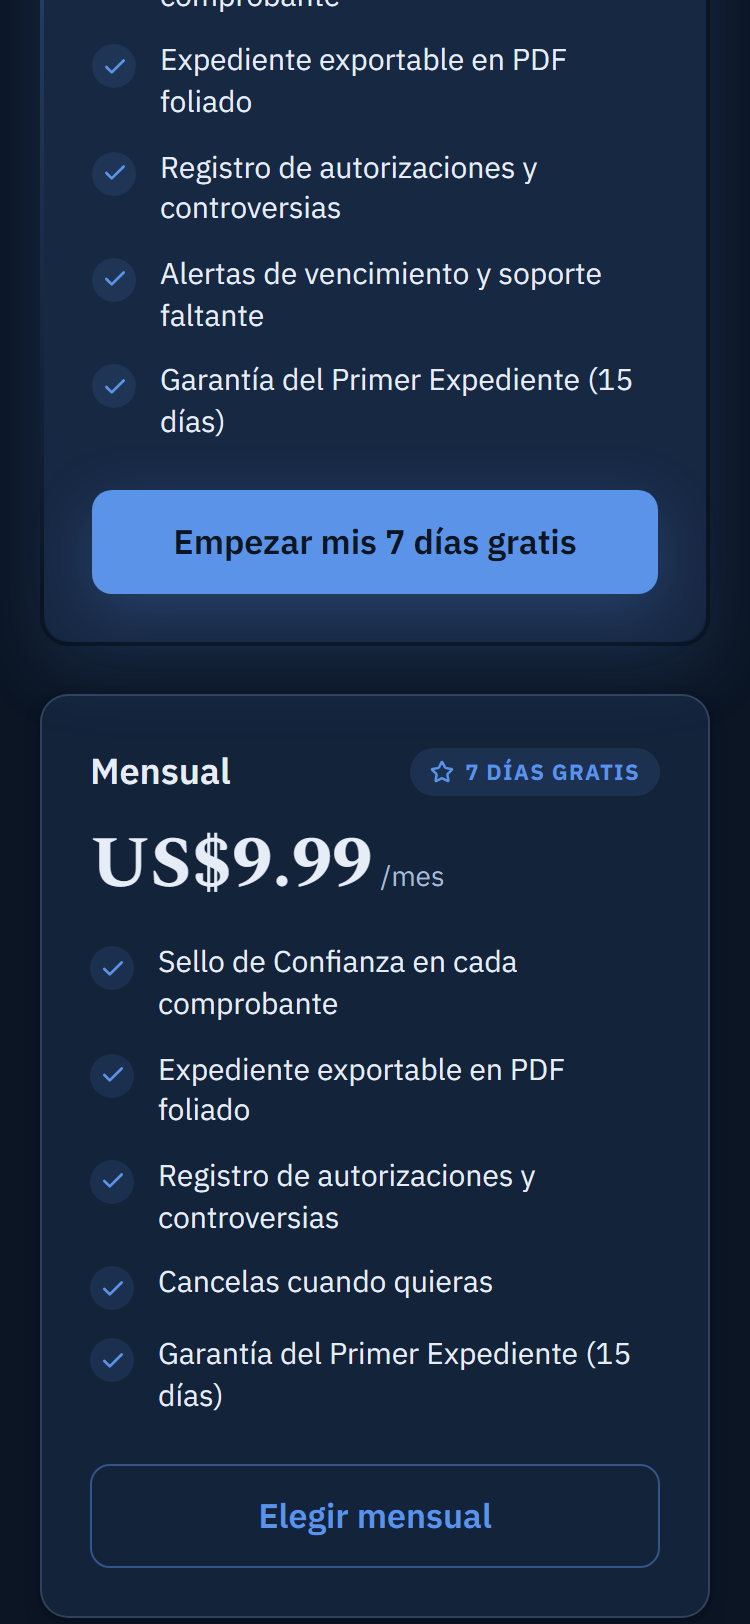
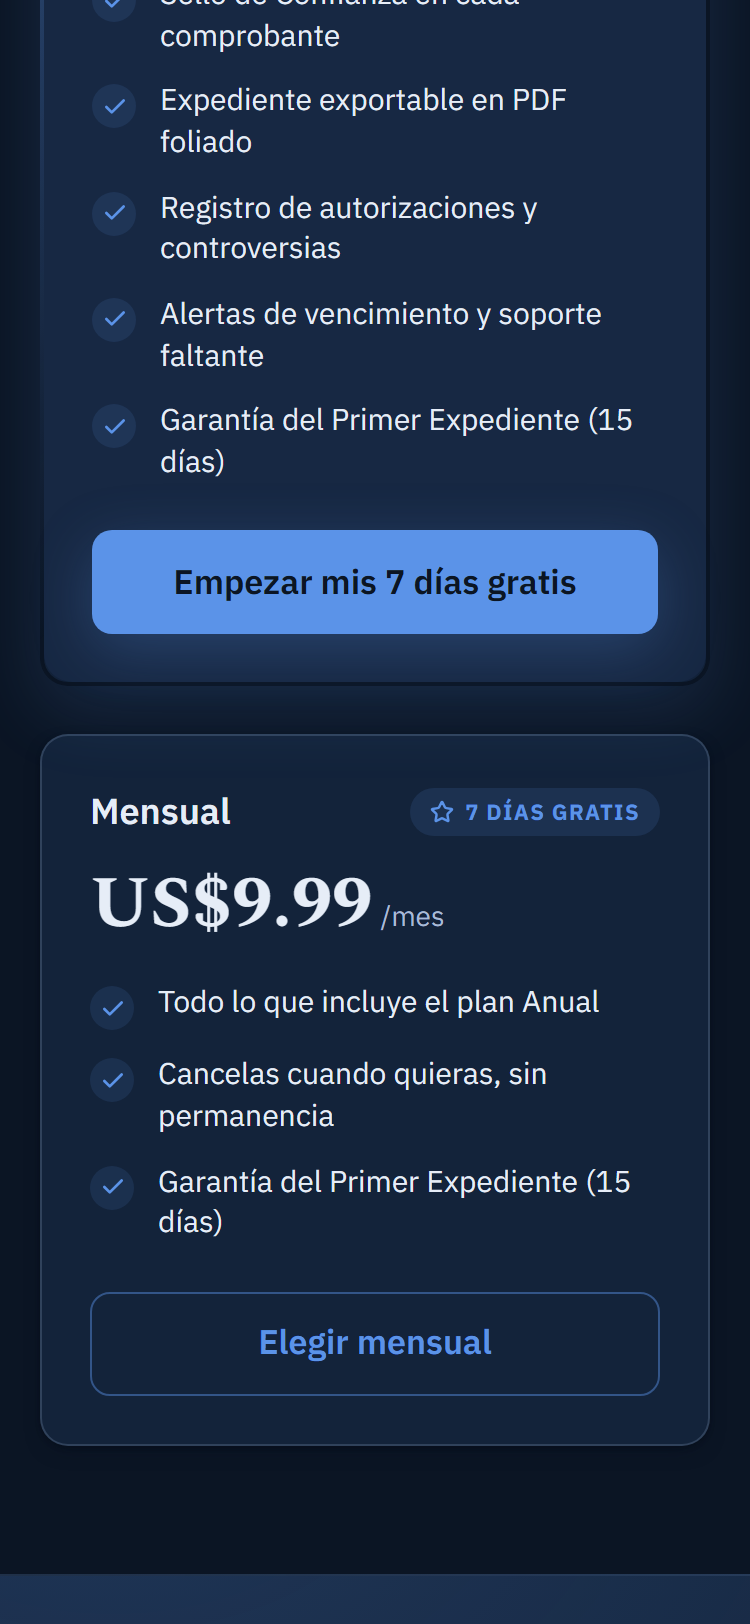
docs: re-veredicto de landing tras el pulido — 37/40 · 17/20 · 18/20 · LISTA
El pulido de la card anual y los bullets del mensual dejo el veredicto
anterior caducado. Re-emitido sobre la version final: la usabilidad
SUBIO de 36 a 37, sin regresiones. Sigue pasando el gate.

diff --git a/docs/revisiones/landing-veredicto.md b/docs/revisiones/landing-veredicto.md
@@ -1,15 +1,14 @@
 # VEREDICTO revisor-visual — landing
 Fecha: 2026-09-10 00:00
-Screenshot: docs/revisiones/landing-hero-375.png
-Usabilidad: 36/40
+Screenshot: docs/revisiones/landing-oferta-cta-375.png
+Usabilidad: 37/40
 Craft: 17/20
 Copy (si vende): 18/20
 Fidelidad (si hubo referencia): N-A
 Veredicto: LISTA
-
 Top defectos:
-1. Card Anual (sección de oferta) — el precio sigue apareciendo en 4 renglones de dinero apilados (US$7.42/mes · "Se cobra US$89 al año, tras los 7 días gratis" · ≈ $275.900 COP al año · "3 meses gratis"); el ojo apurado aún recorre 4 líneas. Fix: jerarquizar — dejar "Se cobra US$89 al año tras los 7 días gratis" como la única línea en peso semibold y demoter las otras a tertiary.
-2. Cards Anual vs Mensual (sección de oferta) — 4 de 5 bullets son idénticos entre planes; el diferenciador real (compromiso/precio) queda diluido. Fix: en la card Mensual mostrar solo "Cancelas cuando quieras" + "Todo lo del plan Anual".
-3. Mock "Tu expediente" (hero) — montos en pesos con espacio tras el símbolo y sin etiqueta ("$ 450.000", "$ 2.075.000") chocan visualmente al lado del pricing en "US$". Fix: formatear "$450.000 COP" sin espacio, o rotular la moneda una vez en el mock.
-4. Coherencia de encuadre entre título de sección ("menos de US$0.25/día") y card Anual (ya no repite /día) — quien escanea solo la card nunca ve el gancho de $0.25/día. Fix: añadir "≈ US$0.25/día" en tertiary bajo el precio, o alinear el título a /mes.
-5. Sección de oferta — tres formulaciones de ahorro conviven (badge "AHORRAS 25%" + "3 meses gratis" + "Valor total US$154 → US$89"). Fix: elegir una afirmación de ahorro dominante y bajar el ruido de las otras dos.
+1. Card mensual (sección Oferta) — con solo 3 bullets queda ~40% más corta que la anual; en desktop el grid items-start deja las cards desparejas y "Todo lo que incluye el plan Anual" obliga a saltar a la otra card → sumar 1 bullet concreto o fijar min-height igualada.
+2. Card anual (bajo el precio) — "Se cobra US$89 al año" (semibold) + "3 meses gratis" (accent) siguen siendo dos focos que compiten bajo el display; el ojo apurado salta entre ambos → mover "3 meses gratis" al badge superior o bajarlo a peso normal.
+3. Hero (H1) — el subrayado tipo marcador sobre "pagada y probada" cubre dos líneas con bloques de ancho distinto y se ve tosco/desalineado → limitar el highlight a una línea o padding uniforme.
+4. Página completa — "Garantía del Primer Expediente (15 días)" se repite 5+ veces (2 cards, stack, sección garantía, recap CTA final, PS) → dejarla en card anual + sección garantía; quitar de mensual y del recap.
+5. CTA final (recap) — "7 días de prueba gratis · Garantía del Primer Expediente (15 días)" envuelve y deja "(15 días)" huérfano en su línea → acortar a "7 días gratis · Garantía de 15 días".
